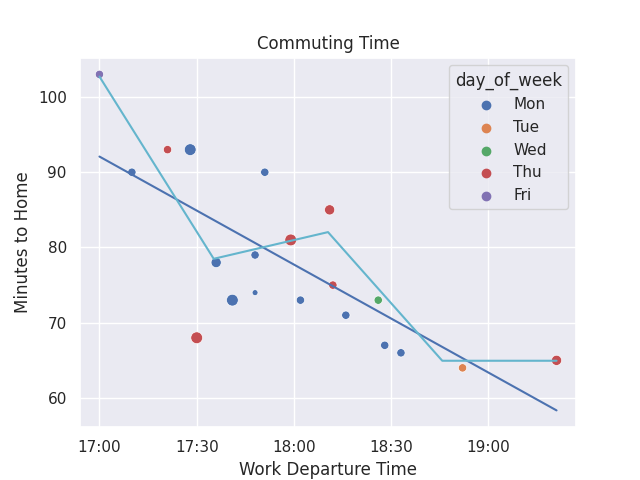
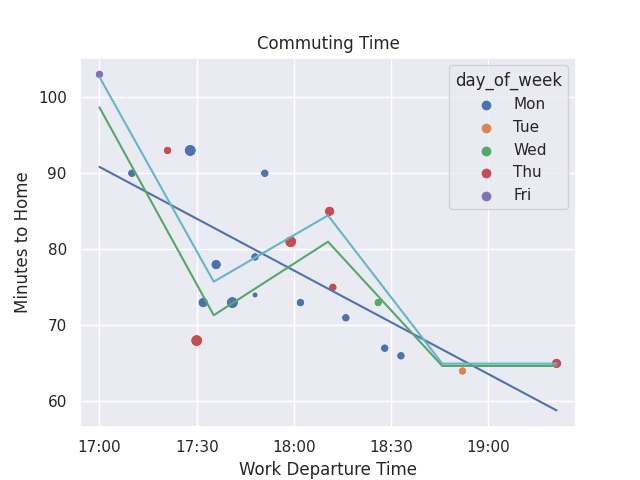
added decision tree regressor

diff --git a/model.py b/model.py
@@ -27,30 +27,6 @@ def nonlinear_prediction_line(df, start, end):
     # print(coeffs)
     return x, coeffs[0] * x + coeffs[1] * x + coeffs[2]
 
-
-
-def decision_tree_regressor(df, start, end):
-    seed = 3
-    X = df[start + '_departure_time_hr'].dropna()
-    y = df['minutes_to_' + end].dropna() 
-    #X_train = df[start + '_departure_time_hr'].dropna()
-    #y_train = df['minutes_to_' + end].dropna()
-    #X_test = np.linspace(X_train.min(), X_train.max(), 100)
-    #TODO: k-fold cross validation 
-    #kf = KFold(n_splits=4, random_state=seed)
-    X_train, X_test, y_train, y_test = train_test_split(X, y, test_size=0.3, random_state=seed)
-    dt = DecisionTreeRegressor(max_depth=8, random_state=seed)
-    #X_train.reshape(-1, 1)
-    #y_train.reshape(-1, 1)
-    dt.fit(X_train, y_train)
-    # dt_scores = cross_val_score(dt_fit, X_train, y_train, cv = 5)
-
-    y_pred = dt.predict(X_test)
-    mse_dt = MSE(y_test, y_pred)
-    rmse_dt = mse_dt**(1/2)
-    print('Root mean square: ' + str(rmse_dt))
-    return X_test, y_pred
-
 def linear_prediction_from_statsmodels(df, start, end, num=20):
     mdl_duration_vs_departure = ols('minutes_to_' + end + ' ~ ' + start + '_departure_time_hr', data=df).fit() # Create the model object and fit the model
     #print(mdl_duration_vs_departure.params) # Print the parameters of the fitted model
@@ -61,11 +37,35 @@ def linear_prediction_from_statsmodels(df, start, end, num=20):
 def compare(df, start, end):
     print('correlation: ' + str(df[start + '_departure_time_hr'].corr(df['minutes_to_' + end])))
 
-def fit_gbr(X_train, X_test, y_train, y_test, params):
+def fit_dtr(X_train, X_test, y_train, y_test):
+    seed = 3
+    dt = DecisionTreeRegressor(max_depth=8, random_state=seed)
+    dt.fit(X_train, y_train)
+    mse = MSE(y_test, dt.predict(X_test))
+    print(f'DTR mean squared error (MSE) on test set: {mse}')
+    return dt, mse
+
+def fit_gbr(X_train, X_test, y_train, y_test):
+    params = {
+        "n_estimators": 500,
+        "max_depth": 6,
+        "min_samples_split": 4,
+        "learning_rate": 0.01,
+        "loss": "squared_error"#,
+    }
+    # hyperparameters -> minimum deviance
+    #  500, 4,  5, 0.01 -> 200 @ 500
+    # 1000, 4,  5, 0.01 -> 200 @ 1000
+    #  500, 8,  5, 0.01 -> 250 @ 500
+    #  500, 4, 10, 0.01 -> 280 @ 500
+    # 1000, 4, 10, 0.01 -> 200 @ 1000
+    #  500, 3,  4, 0.01 -> 200 @ 500 <- selected
+    #  500, 2,  3, 0.01 -> 270 @ 500
+
     reg = GradientBoostingRegressor(**params)
     reg_fit = reg.fit(X_train, y_train)
     mse = MSE(y_test, reg.predict(X_test))
-    print("The mean squared error (MSE) on test set: {:.4f}".format(mse))
+    print(f'GBR mean squared error (MSE) on test set: {mse}')
 
     # reg_scores = cross_val_score(reg_fit, X_train, y_train, cv = 5)
     # print("mean cross validation score: {}".format(np.mean(reg_scores)))
@@ -90,9 +90,10 @@ def fit_gbr(X_train, X_test, y_train, y_test, params):
 
     # mse = MSE(y_test, reg.predict(X_test))
     # print("The mean squared error (MSE) on test set: {:.4f}".format(mse))
-    return reg, mse 
+    return reg, mse, params 
 
-def prediction_from_gbr(reg, df, start):
+def prediction(reg, df, start):
+# def prediction_from_gbr(reg, df, start):
     num = int(np.sqrt(df[start + '_departure_time_hr'].notnull().sum())) + 1
     #print('Earliest departure: ' + str(df[start + '_departure_time_hr'].min()))
     #print('Latest departure: ' + str(df[start + '_departure_time_hr'].max()))

diff --git a/make_plots.py b/make_plots.py
@@ -82,7 +82,7 @@ def time_xticks(ax, earliest_departure, latest_departure):
     #ax.set_xlim(np.fmin(earliest_departure, ticks_loc[0]) - 0.1, np.fmax(latest_departure, ticks_loc[-1]) + 0.1)
     return ax
 
-def duration_vs_departure(df, start='home', end='work', order=1, gbr=False):
+def duration_vs_departure(df, start='home', end='work', order=1, gbr=False, dtr=False):
     fig = plt.figure()
     # Apply the default theme
     sns.set_theme()
@@ -102,21 +102,27 @@ def duration_vs_departure(df, start='home', end='work', order=1, gbr=False):
     
     # Plot linear prediction line
     #ax = linear_prediction_line(ax, df) # This produces a line in the plot but does not look right
-    
-    # Plot decision tree regressor - not yet working
-    # Last error: ValueError: Number of labels=13 does not match number of samples=1
-    # ax = decision_tree_regressor(ax, start, end, df)
 
     # Practice with statsmodels
     x, y = model.linear_prediction_from_statsmodels(df, start, end)
     ax.plot(x, y, c='b')
 
+    # Split data into training and test sets
+    if(gbr or dtr):
+        X_train, X_test, y_train, y_test = dp.preprocess_data(start, end, df)
+
     # Practice with gradient boosting regression
     if(gbr):
-        X_train, X_test, y_train, y_test, params = dp.preprocess_data(start, end, df)
-        reg, mse = model.fit_gbr(X_train, X_test, y_train, y_test, params)
-        x, y = model.prediction_from_gbr(reg, df, start)
+        reg, mse, params = model.fit_gbr(X_train, X_test, y_train, y_test)
+        x, y = model.prediction(reg, df, start)
         ax.plot(x, y, c='c')
+
+    # Practice with decision tree regression
+    if(dtr):
+        dtr, mse = model.fit_dtr(X_train, X_test, y_train, y_test)
+        x, y = model.prediction(dtr, df, start)
+        ax.plot(x, y, c='g')
+
 
     # Specfiy axis labels
     ax.set(xlabel=start.capitalize() + ' Departure Time',

diff --git a/data_processing.py b/data_processing.py
@@ -66,20 +66,5 @@ def preprocess_data(start, end, df):
     #X = df_notna.drop(['minutes_to_' + end], axis=1)
     #print(X)
     X_train, X_test, y_train, y_test = train_test_split(X, y, test_size=0.1, random_state=13)
-    params = {
-        "n_estimators": 500,
-        "max_depth": 6,
-        "min_samples_split": 4,
-        "learning_rate": 0.01,
-        "loss": "squared_error"#,
-    }
-    return X_train, X_test, y_train, y_test, params 
+    return X_train, X_test, y_train, y_test 
 
-    # hyperparameters -> minimum deviance
-    #  500, 4,  5, 0.01 -> 200 @ 500
-    # 1000, 4,  5, 0.01 -> 200 @ 1000
-    #  500, 8,  5, 0.01 -> 250 @ 500
-    #  500, 4, 10, 0.01 -> 280 @ 500
-    # 1000, 4, 10, 0.01 -> 200 @ 1000
-    #  500, 3,  4, 0.01 -> 200 @ 500 <- selected
-    #  500, 2,  3, 0.01 -> 270 @ 500

diff --git a/main.py b/main.py
@@ -2,5 +2,5 @@ import data_processing as dp
 import make_plots as mp 
 
 df = dp.process_data()
-mp.duration_vs_departure(df, order=3, gbr=True)
-mp.duration_vs_departure(df, start='work', end='home', gbr=True)
+mp.duration_vs_departure(df, order=3, gbr=True, dtr=True)
+mp.duration_vs_departure(df, start='work', end='home', gbr=True, dtr=True)
